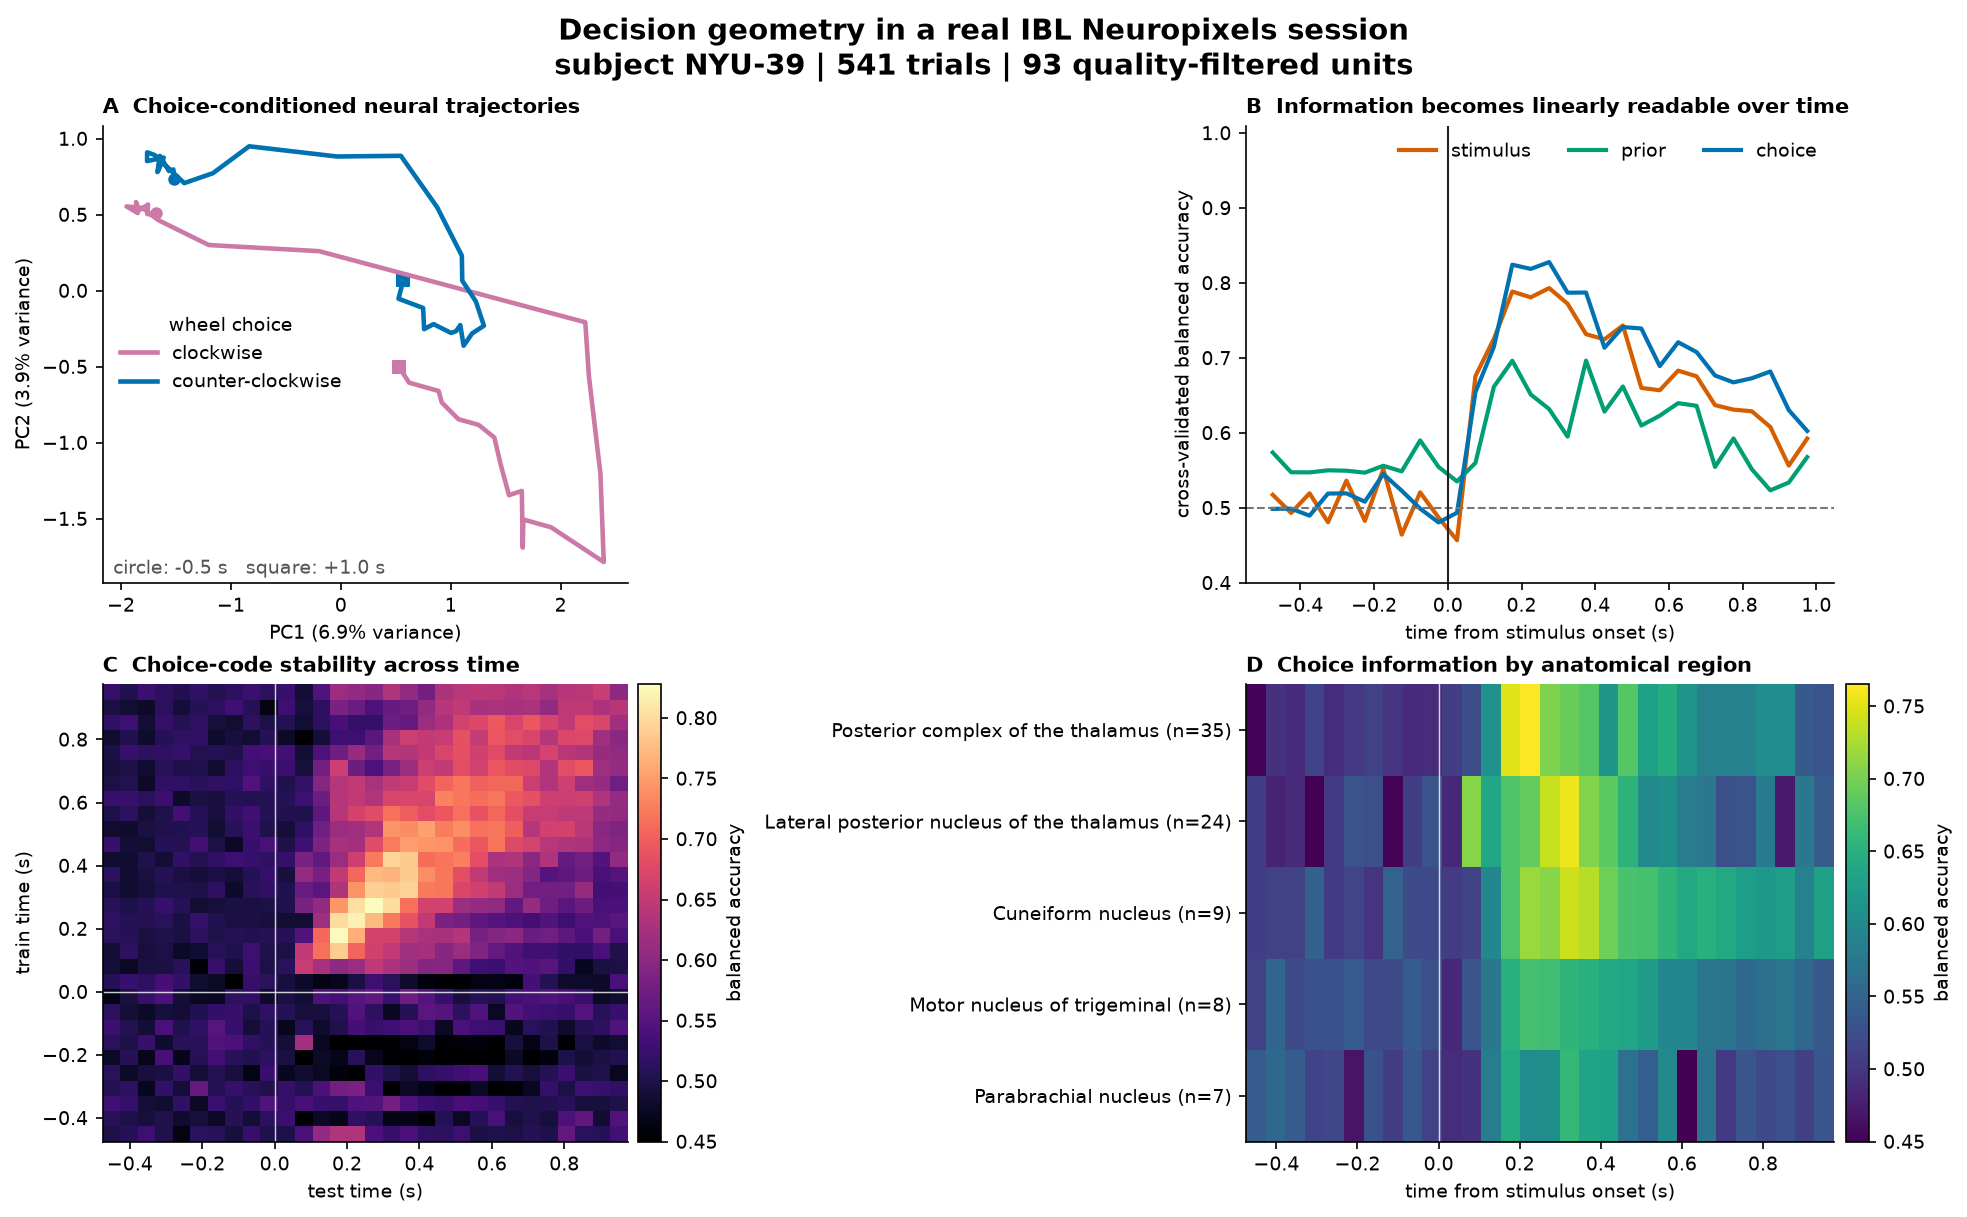
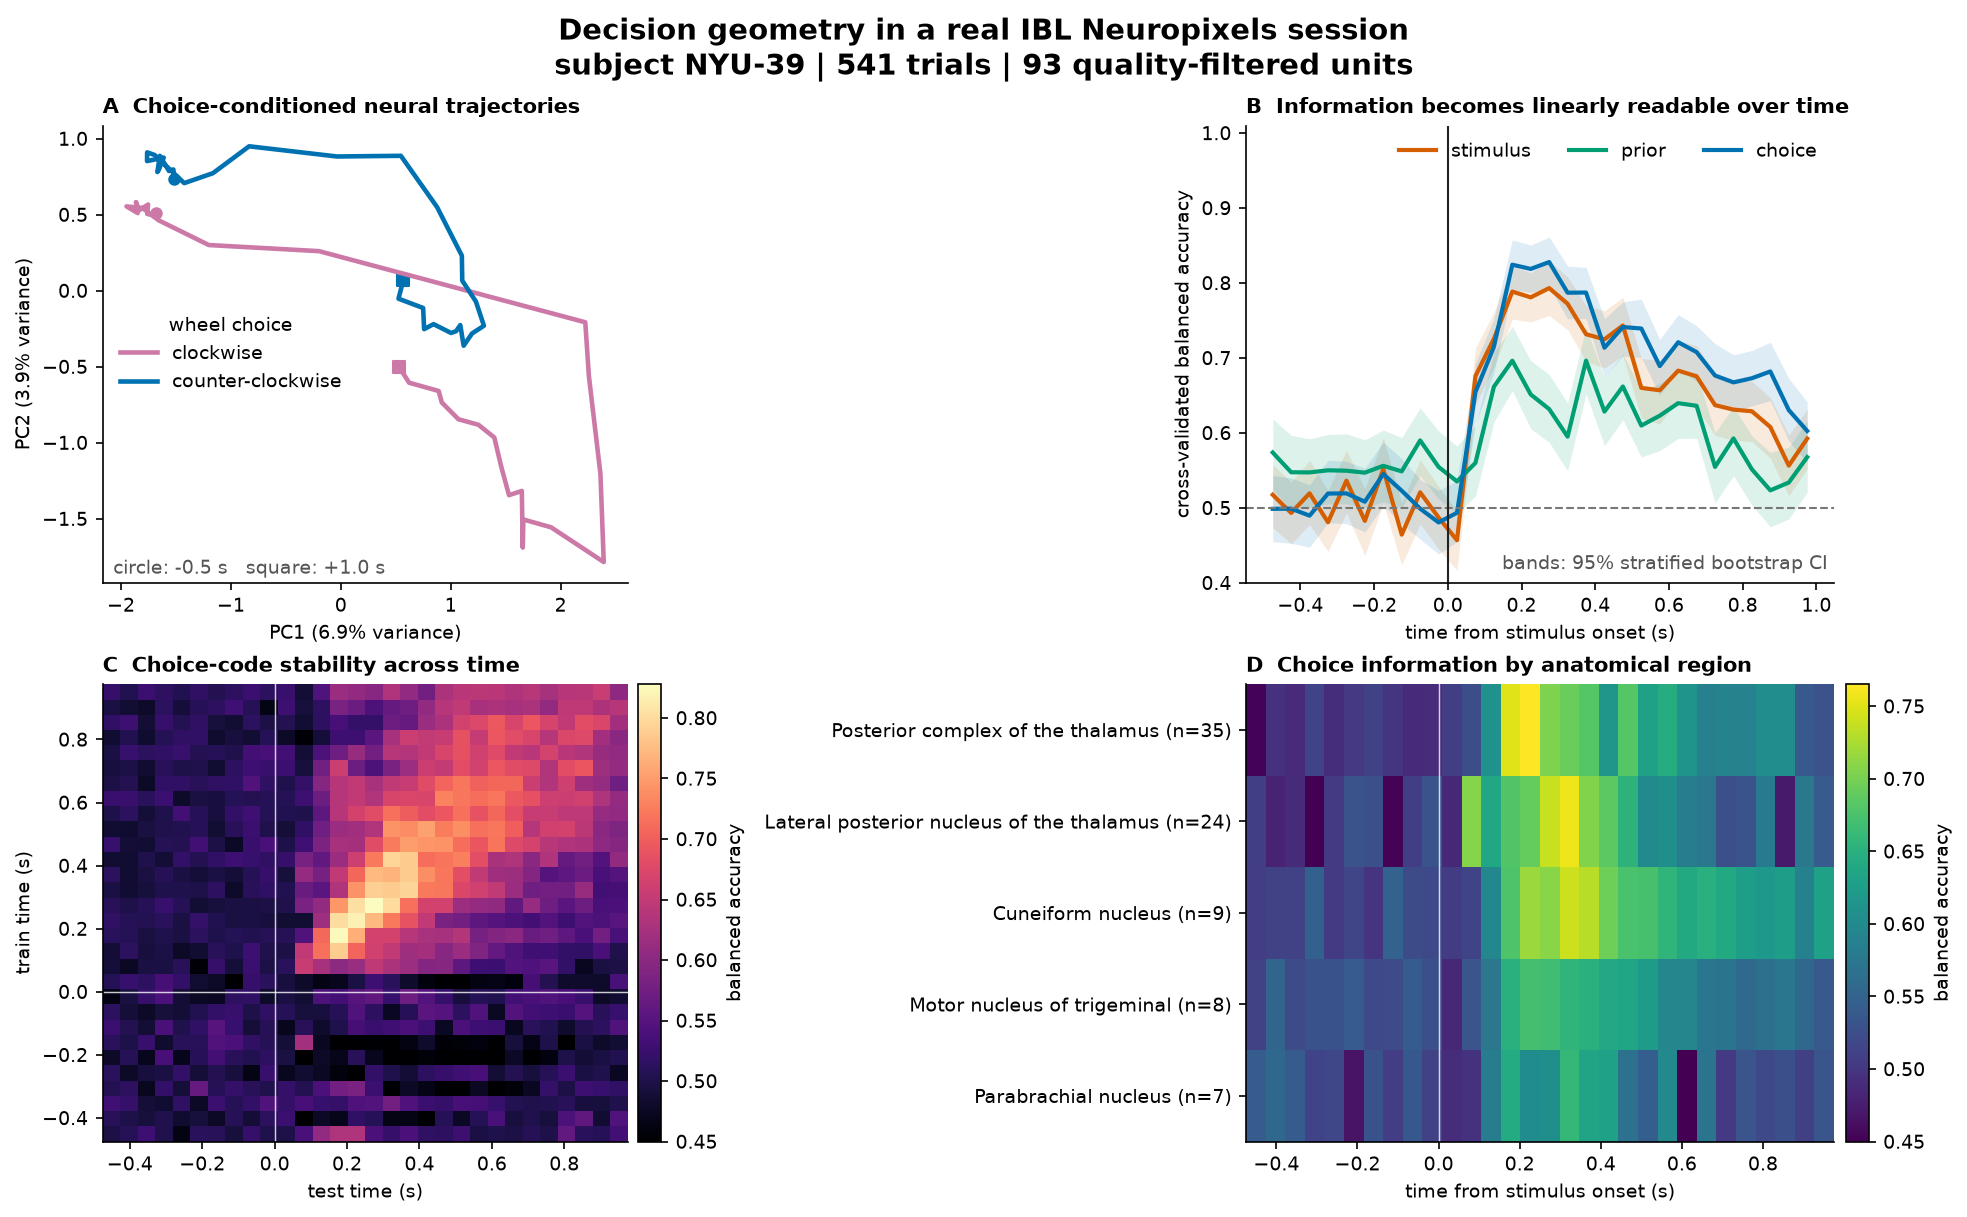
Add uncertainty to neural decoding results

Changed region(s): [[0.6202, 0.1873, 0.9304, 0.4684]]

diff --git a/decision_geometry/analysis.py b/decision_geometry/analysis.py
@@ -20,8 +20,16 @@ class AnalysisResult:
     pca_trajectories: dict[str, np.ndarray]
     explained_variance: np.ndarray
     decoding: dict[str, np.ndarray]
+    decoding_ci: dict[str, np.ndarray]
     cross_temporal_choice: np.ndarray
     region_decoding: dict[str, np.ndarray]
+
+
+@dataclass(frozen=True)
+class DecodingEstimate:
+    scores: np.ndarray
+    ci_low: np.ndarray
+    ci_high: np.ndarray
 
 
 def _splits(labels: np.ndarray, seed: int, n_splits: int = 5):
@@ -53,15 +61,15 @@ def _validated_decoding_inputs(
     return rates[valid], labels[valid]
 
 
-def decode_timecourse(
+def _decode_timecourse_oof(
     rates: np.ndarray,
     labels: np.ndarray,
     *,
-    seed: int = 7,
-) -> np.ndarray:
-    """Return cross-validated balanced accuracy at every time bin."""
+    seed: int,
+) -> tuple[np.ndarray, np.ndarray, np.ndarray]:
     x, y = _validated_decoding_inputs(rates, labels)
     scores = np.zeros(x.shape[2], dtype=float)
+    predictions = np.empty((x.shape[0], x.shape[2]), dtype=y.dtype)
     splits = _splits(y, seed)
     for time_index in range(x.shape[2]):
         fold_scores = []
@@ -69,9 +77,65 @@ def decode_timecourse(
             model = _classifier()
             model.fit(x[train, :, time_index], y[train])
             prediction = model.predict(x[test, :, time_index])
+            predictions[test, time_index] = prediction
             fold_scores.append(balanced_accuracy_score(y[test], prediction))
         scores[time_index] = np.mean(fold_scores)
+    return y, scores, predictions
+
+
+def _bootstrap_balanced_accuracy(
+    labels: np.ndarray,
+    predictions: np.ndarray,
+    *,
+    seed: int,
+    n_resamples: int,
+) -> tuple[np.ndarray, np.ndarray]:
+    if n_resamples < 10:
+        raise ValueError("n_resamples must be at least 10")
+
+    classes = np.unique(labels)
+    bootstrap_scores = np.zeros((n_resamples, predictions.shape[1]), dtype=float)
+    rng = np.random.default_rng(seed)
+    for label in classes:
+        class_indices = np.flatnonzero(labels == label)
+        sampled = rng.choice(
+            class_indices,
+            size=(n_resamples, class_indices.size),
+            replace=True,
+        )
+        bootstrap_scores += (predictions[sampled] == label).mean(axis=1)
+    bootstrap_scores /= classes.size
+    low, high = np.quantile(bootstrap_scores, [0.025, 0.975], axis=0)
+    return low, high
+
+
+def decode_timecourse(
+    rates: np.ndarray,
+    labels: np.ndarray,
+    *,
+    seed: int = 7,
+) -> np.ndarray:
+    """Return cross-validated balanced accuracy at every time bin."""
+    _, scores, _ = _decode_timecourse_oof(rates, labels, seed=seed)
     return scores
+
+
+def decode_timecourse_estimate(
+    rates: np.ndarray,
+    labels: np.ndarray,
+    *,
+    seed: int = 7,
+    n_resamples: int = 1000,
+) -> DecodingEstimate:
+    """Return time-resolved accuracy with a stratified bootstrap interval."""
+    y, scores, predictions = _decode_timecourse_oof(rates, labels, seed=seed)
+    low, high = _bootstrap_balanced_accuracy(
+        y,
+        predictions,
+        seed=seed + 10_000,
+        n_resamples=n_resamples,
+    )
+    return DecodingEstimate(scores=scores, ci_low=low, ci_high=high)
 
 
 def cross_temporal_decode(
@@ -118,13 +182,28 @@ def analyze_population(
     *,
     seed: int = 7,
     min_region_units: int = 5,
+    bootstrap_resamples: int = 1000,
 ) -> AnalysisResult:
     rates = dataset.rates.astype(float)
     trajectories, explained = _pca_trajectories(dataset.rates, dataset.choice)
-    decoding = {
-        "choice": decode_timecourse(rates, dataset.choice, seed=seed),
-        "stimulus": decode_timecourse(rates, dataset.stimulus_side, seed=seed),
-        "prior": decode_timecourse(rates, dataset.prior_side, seed=seed),
+    labels = {
+        "choice": dataset.choice,
+        "stimulus": dataset.stimulus_side,
+        "prior": dataset.prior_side,
+    }
+    estimates = {
+        name: decode_timecourse_estimate(
+            rates,
+            values,
+            seed=seed,
+            n_resamples=bootstrap_resamples,
+        )
+        for name, values in labels.items()
+    }
+    decoding = {name: estimate.scores for name, estimate in estimates.items()}
+    decoding_ci = {
+        name: np.vstack((estimate.ci_low, estimate.ci_high))
+        for name, estimate in estimates.items()
     }
     cross_temporal = cross_temporal_decode(rates, dataset.choice, seed=seed)
 
@@ -141,6 +220,7 @@ def analyze_population(
         pca_trajectories=trajectories,
         explained_variance=explained,
         decoding=decoding,
+        decoding_ci=decoding_ci,
         cross_temporal_choice=cross_temporal,
         region_decoding=region_decoding,
     )

diff --git a/tests/test_analysis.py b/tests/test_analysis.py
@@ -1,7 +1,11 @@
 import numpy as np
 import pytest
 
-from decision_geometry.analysis import cross_temporal_decode, decode_timecourse
+from decision_geometry.analysis import (
+    cross_temporal_decode,
+    decode_timecourse,
+    decode_timecourse_estimate,
+)
 
 
 def _decodable_fixture(seed=3):
@@ -17,6 +21,24 @@ def test_timecourse_detects_post_signal():
     scores = decode_timecourse(rates, labels)
     assert scores[4:].mean() > 0.85
     assert scores[:4].mean() < 0.7
+
+
+def test_timecourse_uncertainty_is_deterministic_and_tracks_signal():
+    rates, labels = _decodable_fixture()
+    first = decode_timecourse_estimate(rates, labels, n_resamples=200)
+    second = decode_timecourse_estimate(rates, labels, n_resamples=200)
+
+    np.testing.assert_array_equal(first.ci_low, second.ci_low)
+    np.testing.assert_array_equal(first.ci_high, second.ci_high)
+    assert first.ci_low.shape == first.scores.shape
+    assert np.all(first.ci_low <= first.ci_high)
+    assert first.ci_low[4:].mean() > 0.75
+
+
+def test_timecourse_uncertainty_rejects_too_few_resamples():
+    rates, labels = _decodable_fixture()
+    with pytest.raises(ValueError, match="at least 10"):
+        decode_timecourse_estimate(rates, labels, n_resamples=9)
 
 
 def test_cross_temporal_matrix_has_expected_shape_and_signal():

diff --git a/decision_geometry/pipeline.py b/decision_geometry/pipeline.py
@@ -34,6 +34,8 @@ def run_pipeline(
     choice_scores = result.decoding["choice"]
     stimulus_scores = result.decoding["stimulus"]
     prior_scores = result.decoding["prior"]
+    peak_choice_index = int(np.argmax(choice_scores))
+    peak_choice_ci = result.decoding_ci["choice"][:, peak_choice_index]
     summary = {
         "data": provenance(),
         "n_trials": int(dataset.rates.shape[0]),
@@ -42,9 +44,12 @@ def run_pipeline(
         "random_seed": seed,
         "bin_size_s": bin_size,
         "max_units_requested": max_units,
+        "bootstrap_resamples": 1000,
+        "uncertainty": "95% class-stratified bootstrap CI from held-out predictions",
         "quality_filter": "ibl_quality_score=1, presence_ratio>=0.9, 0.1<=firing_rate<=100 Hz",
         "peak_choice_accuracy": float(choice_scores.max()),
-        "peak_choice_time_s": float(dataset.time[np.argmax(choice_scores)]),
+        "peak_choice_time_s": float(dataset.time[peak_choice_index]),
+        "peak_choice_ci95": [float(value) for value in peak_choice_ci],
         "peak_stimulus_accuracy": float(stimulus_scores.max()),
         "peak_prior_accuracy": float(prior_scores.max()),
         "figure": str(figure_path),

diff --git a/decision_geometry/plotting.py b/decision_geometry/plotting.py
@@ -64,6 +64,15 @@ def save_dashboard(
 
     ax = fig.add_subplot(grid[0, 1])
     for name in ("stimulus", "prior", "choice"):
+        interval = result.decoding_ci[name]
+        ax.fill_between(
+            dataset.time,
+            interval[0],
+            interval[1],
+            color=COLORS[name],
+            alpha=0.13,
+            linewidth=0,
+        )
         ax.plot(dataset.time, result.decoding[name], color=COLORS[name], linewidth=2, label=name)
     ax.axhline(0.5, color="#777777", linewidth=1, linestyle="--")
     ax.axvline(0.0, color="#222222", linewidth=1)
@@ -72,6 +81,14 @@ def save_dashboard(
     ax.set_xlabel("time from stimulus onset (s)")
     ax.set_ylabel("cross-validated balanced accuracy")
     ax.legend(frameon=False, ncol=3)
+    ax.text(
+        0.99,
+        0.03,
+        "bands: 95% stratified bootstrap CI",
+        transform=ax.transAxes,
+        color="#555555",
+        ha="right",
+    )
 
     ax = fig.add_subplot(grid[1, 0])
     image = ax.imshow(

diff --git a/scripts/export_web_payload.py b/scripts/export_web_payload.py
@@ -35,6 +35,10 @@ def main() -> None:
         "decoding": {
             name: _rounded(scores) for name, scores in result.decoding.items()
         },
+        "decodingCi": {
+            name: _rounded(interval)
+            for name, interval in result.decoding_ci.items()
+        },
         "crossTemporalChoice": _rounded(result.cross_temporal_choice),
         "regionDecoding": {
             name: _rounded(scores) for name, scores in result.region_decoding.items()
